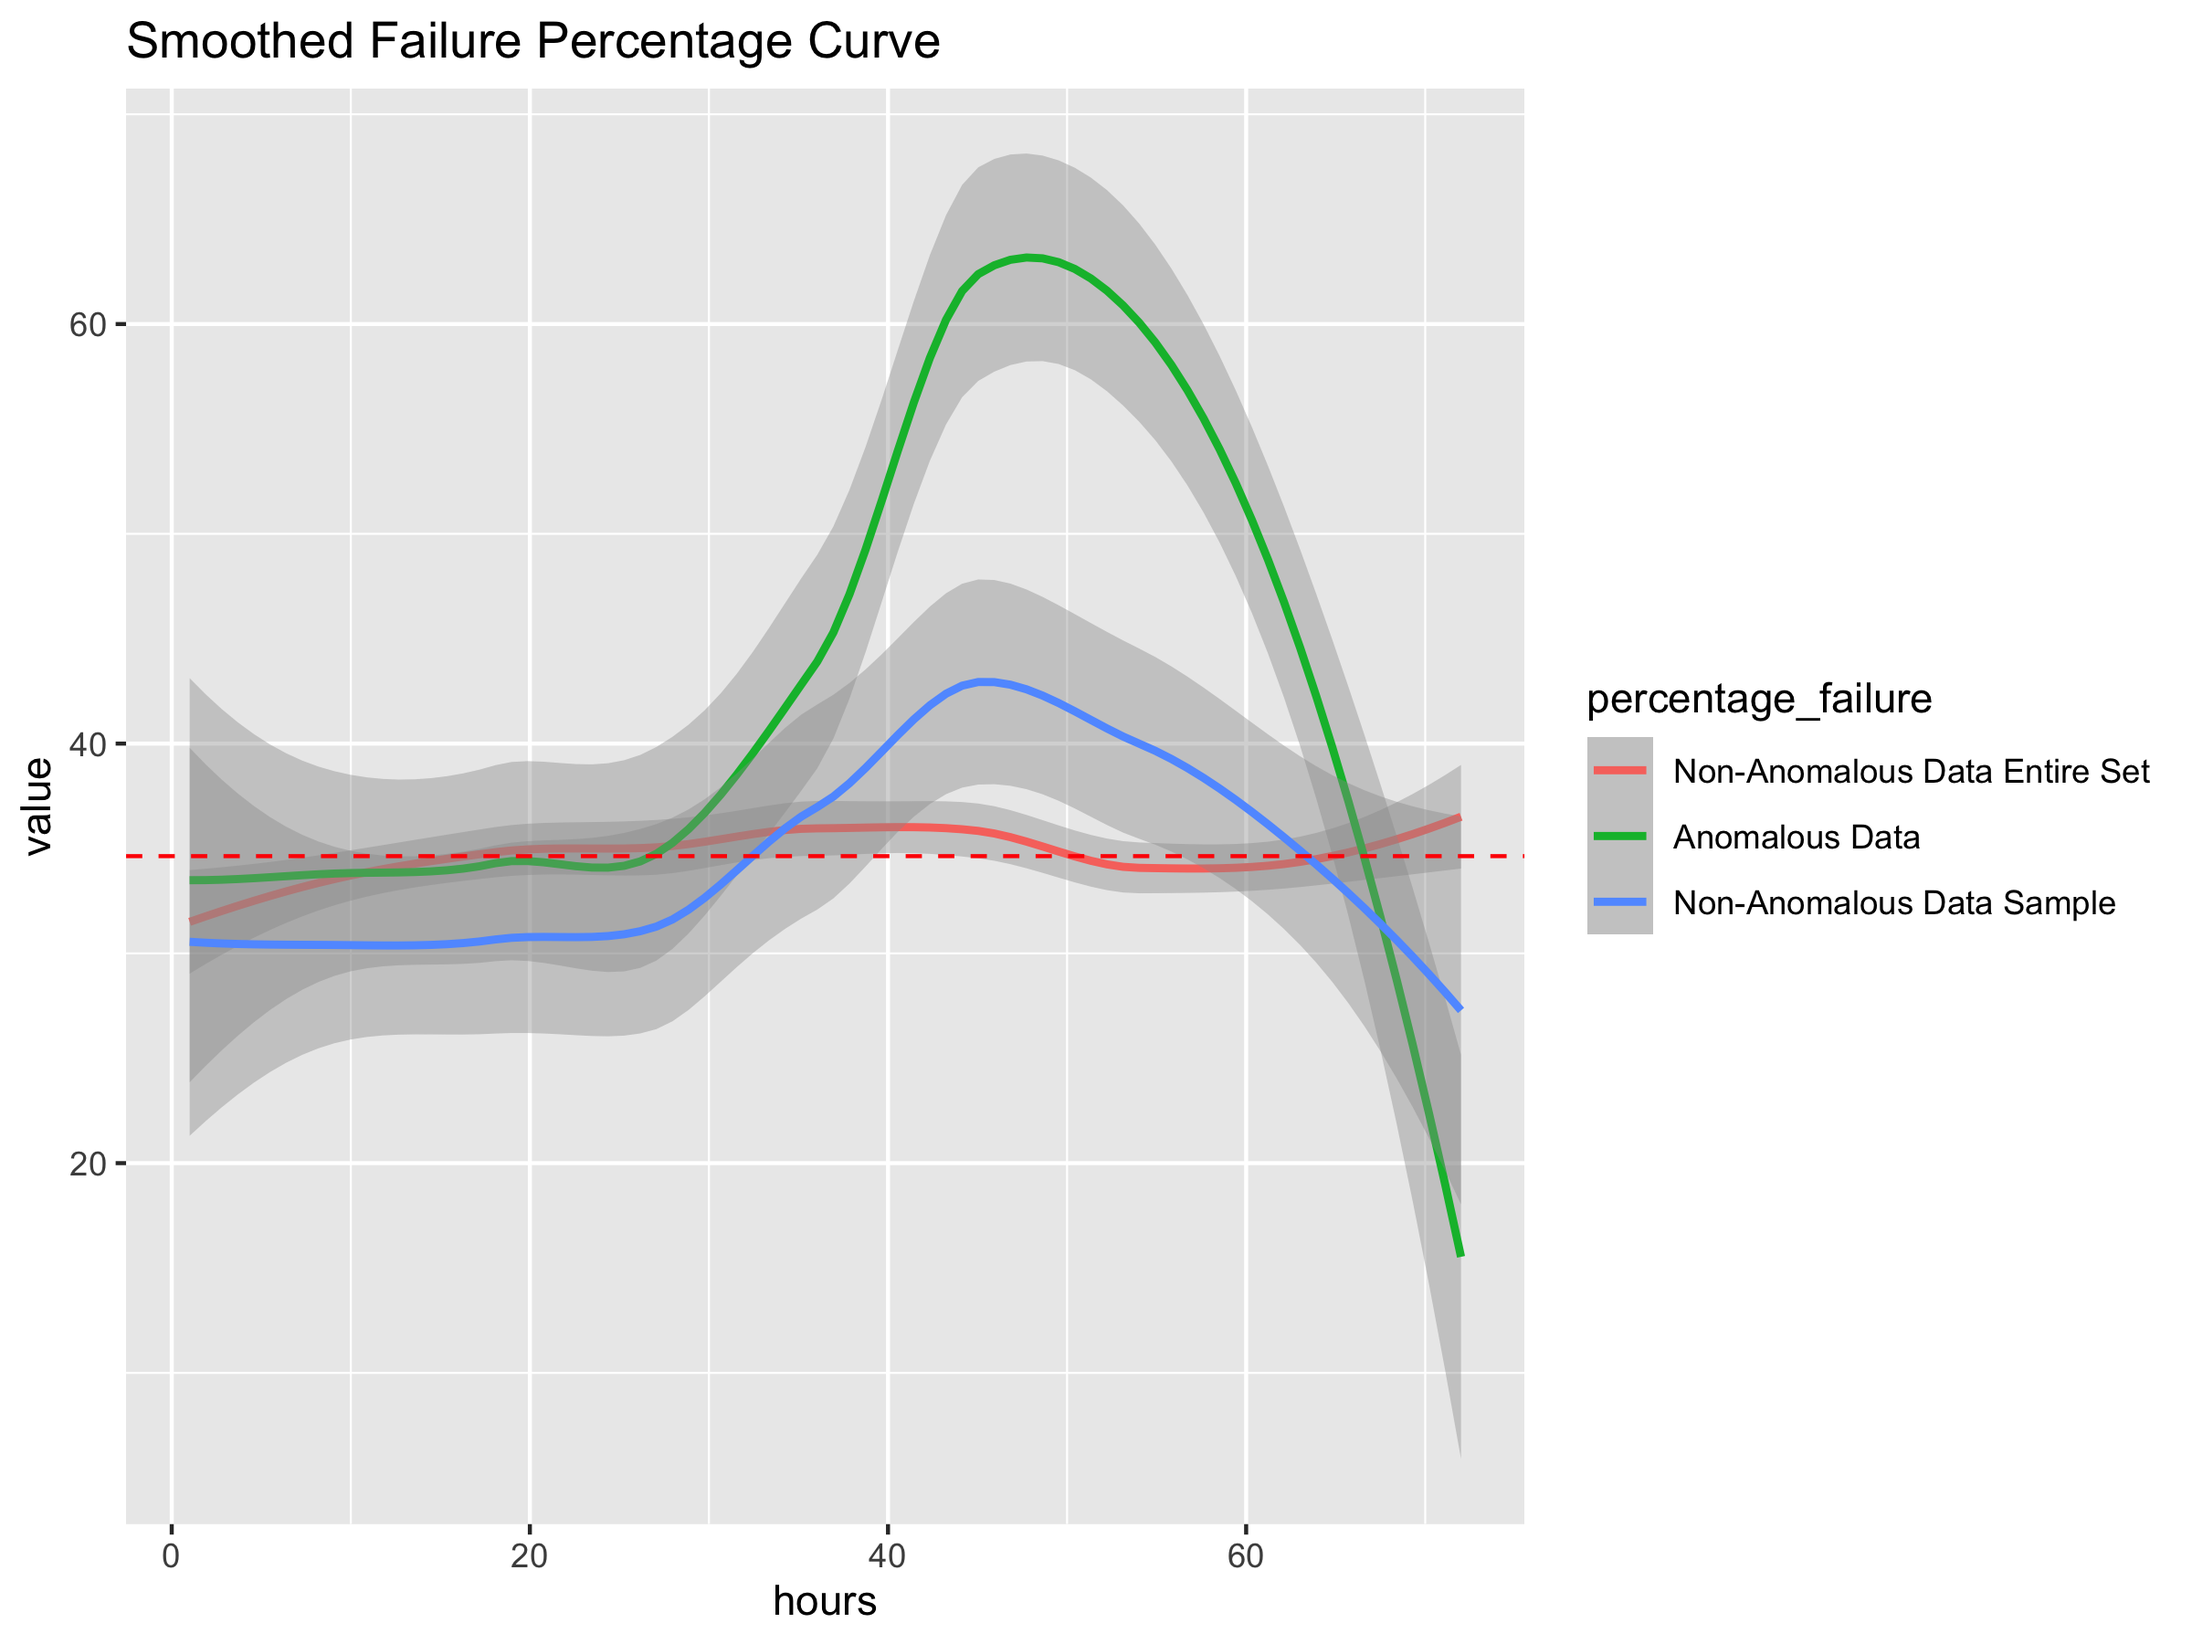
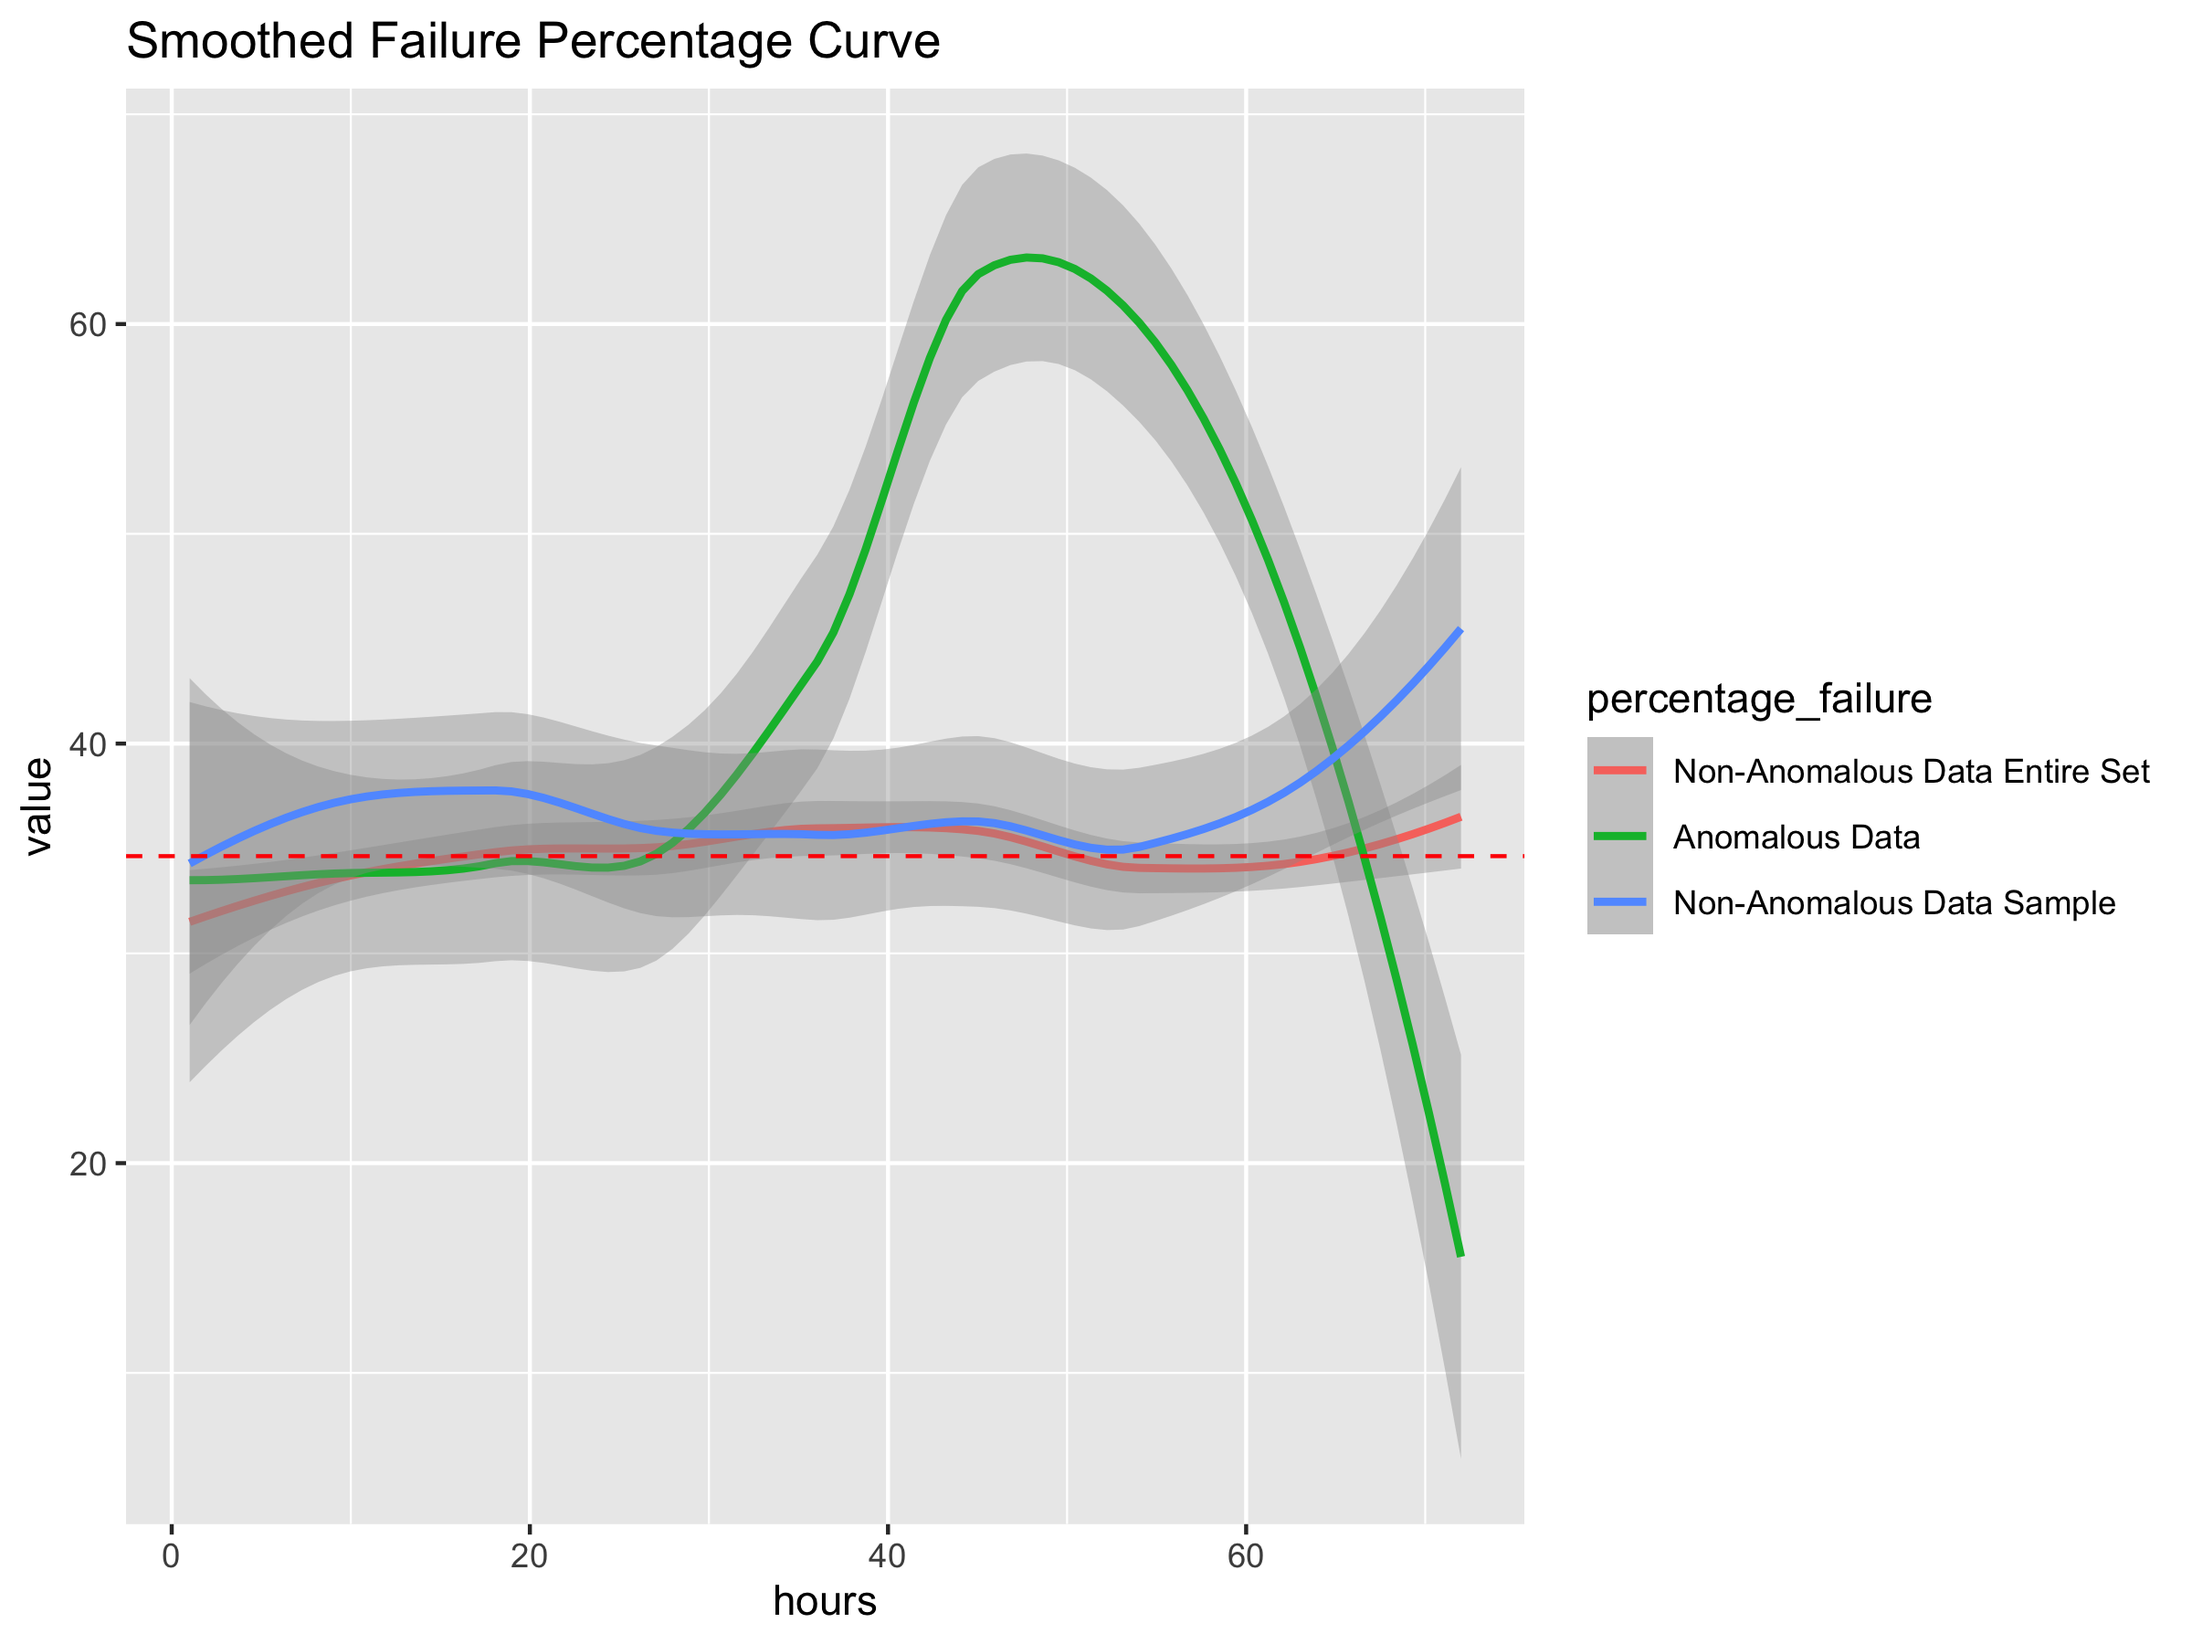
kdkd

Changed region(s): [[0.0625, 0.28, 0.6875, 0.6844], [0.0938, 0.4356, 0.3125, 0.4978], [0.0938, 0.4978, 0.125, 0.5289]]

diff --git a/Anamoly_Detection/ReadMe.md b/Anamoly_Detection/ReadMe.md
@@ -725,13 +725,13 @@ compliment_sample_sizes <- t
 (sum(compliment_sample_sizes[,2]))
 ```
 
-    ## [1] 14718
+    ## [1] 14092
 
 ``` r
 cat("totall transactions in sample of observations from normal data of equal size to number of anamoly observations.",sum(compliment_sample_sizes[,2]))
 ```
 
-    ## totall transactions in sample of observations from normal data of equal size to number of anamoly observations. 14718
+    ## totall transactions in sample of observations from normal data of equal size to number of anamoly observations. 14092
 
 ``` r
 hours <- seq(1, 72, 1)
@@ -766,7 +766,7 @@ ggplot(data = long, aes(x = hours, y = value, group = percentage_failure, color 
 cat("totall transactions in sample of observations from normal data of equal size to number of anamoly observations.",sum(compliment_sample_sizes[,2]))
 ```
 
-    ## totall transactions in sample of observations from normal data of equal size to number of anamoly observations. 14718
+    ## totall transactions in sample of observations from normal data of equal size to number of anamoly observations. 14092
 
 To make a fair comparison of the anomalous data and normal data before
 the anomaly event, the blue line is the failure rate of the normal data
@@ -840,17 +840,8 @@ ok what if for each payment method we made a plot of a curve for each
 payment gate way that somehow visualized the combination of transaction
 volume and failure rate
 
-``` r
-library(shiny)
-
-#shiny::runApp("/Users/jacobrichards/Desktop/DS_DA_Projects/Anamoly_Detection/shiny")
-
-
-#You can access the live Shiny app here: [Shiny App on shinyapps.io](https://jacob-j-richards.shinyapps.io/shiny/)
-```
-
-[Shiny App on
-shinyapps.io](https://jacob-j-richards.shinyapps.io/shiny/)
+<a href="https://jacob-j-richards.shinyapps.io/shiny/"
+target="_blank">Click here to use the Shiny App</a>
 
 ``` r
 paytm_subset <- data[
